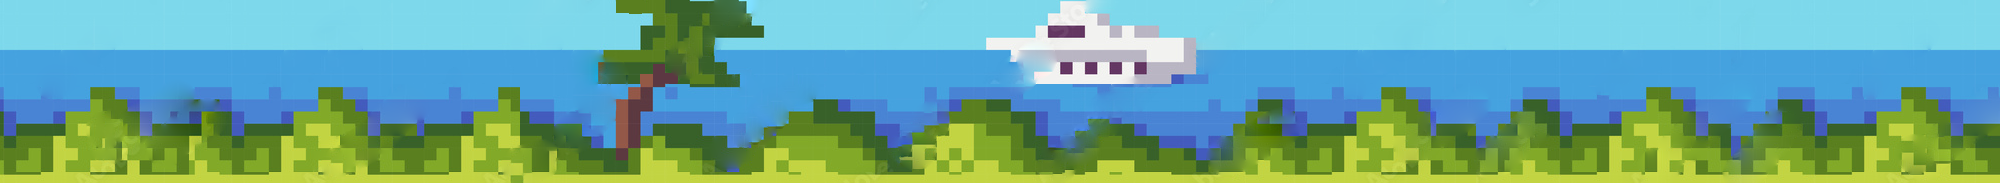
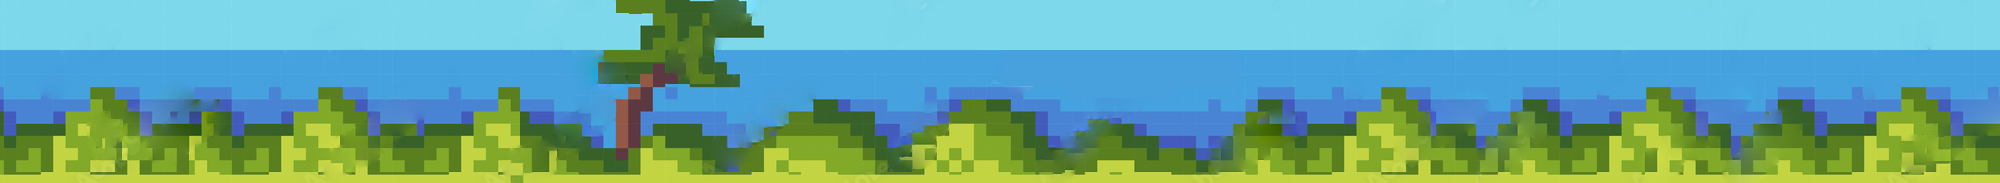
add wheelspin and enemy car

Changed region(s): [[0.496, 0.0, 0.62, 0.4918]]

diff --git a/src/app/gameboard/page.tsx b/src/app/gameboard/page.tsx
@@ -10,7 +10,7 @@ import './GameBoard.css'
 import Loader from "@/components/Loader/Loader"
 import { CarCard } from "@/types/CarCard"
 import Image from 'next/image';
-import { MoneyProvider, useMoney } from '../../contexts/MoneyContext';
+import { useMoney } from '../../contexts/MoneyContext';
 import CarStats from "@/components/CarStats/CarStats";
 import { callConffeti } from '../../utils/helperFunctions'
 
@@ -39,7 +39,8 @@ const GameBoard = ({ searchParams }: { searchParams: any }) => {
     ]) //DEFAULT 
     const [selectedCar, setSelectedCar] = useState<CarCard>()
     const [diceRolls, setDiceRolls] = useState<any>()
-    const [car1Position, setPosition] = useState(0); // Initial position 
+    const [car1Position, setCar1Position] = useState(0); // Initial position 
+    const [car2Position, setCar2Position] = useState(0); // Initial position 
     const [raceValue, setRaceValue] = useState<number>(0); // race type 0,1,2...
     const [gear, setGear] = useState<number>(0); 
     const [currentRollStats, setCurrentRollStats] = useState({});
@@ -48,8 +49,8 @@ const GameBoard = ({ searchParams }: { searchParams: any }) => {
  
     useEffect(() => {
         if (raceType===0) { setRaceValue(50); } 
-        if (raceType===1) { setRaceValue(200); } 
-        if (raceType===2) { setRaceValue(100); } 
+        if (raceType===1) { setRaceValue(100); } 
+        if (raceType===2) { setRaceValue(200); } 
     })
 
     useEffect(() => {
@@ -141,49 +142,19 @@ const GameBoard = ({ searchParams }: { searchParams: any }) => {
             // console.log(selectedCar?.parts.body[diceRolls[3]-1])
             // console.log(selectedCar?.parts.tires[diceRolls[4]-1])
             // console.log(selectedCar?.parts.transmission[diceRolls[5]-1])
-
-            const engineDiceAttrs:any = selectedCar?.parts.engine[diceRolls[0]-1].diceAttributes?.filter((diceAttr=> diceAttr.selected))
-            console.log(engineDiceAttrs)
-            accumulatedHorsepower = accumulatedHorsepower + engineDiceAttrs[0].horsepower
-            accumulatedAcceleration = accumulatedAcceleration + engineDiceAttrs[0].acceleration
-            accumulatedWeight = accumulatedWeight + engineDiceAttrs[0].weight
-            accumulatedWheelspin = accumulatedWheelspin + engineDiceAttrs[0].wheelspin
-
-            const turboDiceAttrs:any = selectedCar?.parts.turbo[diceRolls[1]-1].diceAttributes?.filter((diceAttr=> diceAttr.selected))
-            console.log(turboDiceAttrs)
-            accumulatedHorsepower = accumulatedHorsepower + turboDiceAttrs[0].horsepower
-            accumulatedAcceleration = accumulatedAcceleration + turboDiceAttrs[0].acceleration
-            accumulatedWeight = accumulatedWeight + turboDiceAttrs[0].weight
-            accumulatedWheelspin = accumulatedWheelspin + turboDiceAttrs[0].wheelspin
-
-            const intakeDiceAttrs:any = selectedCar?.parts.intake[diceRolls[2]-1].diceAttributes?.filter((diceAttr=> diceAttr.selected))
-            console.log(intakeDiceAttrs)
-            accumulatedHorsepower = accumulatedHorsepower + intakeDiceAttrs[0].horsepower
-            accumulatedAcceleration = accumulatedAcceleration + intakeDiceAttrs[0].acceleration
-            accumulatedWeight = accumulatedWeight + intakeDiceAttrs[0].weight
-            accumulatedWheelspin = accumulatedWheelspin + intakeDiceAttrs[0].wheelspin
-
-            const bodyDiceAttrs:any = selectedCar?.parts.body[diceRolls[3]-1].diceAttributes?.filter((diceAttr=> diceAttr.selected))
-            console.log(bodyDiceAttrs)
-            accumulatedHorsepower = accumulatedHorsepower + bodyDiceAttrs[0].horsepower
-            accumulatedAcceleration = accumulatedAcceleration + bodyDiceAttrs[0].acceleration
-            accumulatedWeight = accumulatedWeight + bodyDiceAttrs[0].weight
-            accumulatedWheelspin = accumulatedWheelspin + bodyDiceAttrs[0].wheelspin
-
-            const tiresDiceAttrs:any = selectedCar?.parts.tires[diceRolls[4]-1].diceAttributes?.filter((diceAttr=> diceAttr.selected))
-            console.log(tiresDiceAttrs)
-            accumulatedHorsepower = accumulatedHorsepower + tiresDiceAttrs[0].horsepower
-            accumulatedAcceleration = accumulatedAcceleration + tiresDiceAttrs[0].acceleration
-            accumulatedWeight = accumulatedWeight + tiresDiceAttrs[0].weight
-            accumulatedWheelspin = accumulatedWheelspin + tiresDiceAttrs[0].wheelspin
-
-            const transmissionDiceAttrs:any = selectedCar?.parts.transmission[diceRolls[5]-1].diceAttributes?.filter((diceAttr=> diceAttr.selected))
-            console.log(transmissionDiceAttrs)
-            accumulatedHorsepower = accumulatedHorsepower + transmissionDiceAttrs[0].horsepower
-            accumulatedAcceleration = accumulatedAcceleration + transmissionDiceAttrs[0].acceleration
-            accumulatedWeight = accumulatedWeight + transmissionDiceAttrs[0].weight
-            accumulatedWheelspin = accumulatedWheelspin + transmissionDiceAttrs[0].wheelspin
-
+ 
+ 
+            diceNames.map(name => name.toLowerCase()).forEach((part:any, index:any) => {
+                const diceAttrs = selectedCar?.parts[part][diceRolls[index] - 1].diceAttributes?.filter((diceAttr => diceAttr.selected));
+                if (diceAttrs?.length) {
+                    console.log(diceAttrs);
+                    accumulatedHorsepower += diceAttrs[0].horsepower;
+                    accumulatedAcceleration += diceAttrs[0].acceleration;
+                    accumulatedWeight += diceAttrs[0].weight;
+                    accumulatedWheelspin += diceAttrs[0].wheelspin;
+                }
+            });
+ 
 
             if (selectedCar) {
                 const newCarStats = {
@@ -197,12 +168,14 @@ const GameBoard = ({ searchParams }: { searchParams: any }) => {
                 /* Animate road */
                 const road:any = document.getElementById('road');
                 road.classList.add('animate');
-                setTimeout(() => {road.classList.remove('animate');}, 550);
+                setTimeout(() => {road.classList.remove('animate');}, 400);
                 /* end Animate road */
 
-                console.log(newCarStats)
-                console.log("DISTANCE::::: ", convertToPixels(newCarStats)) 
-                setPosition(prevPosition => prevPosition + (convertToPixels(newCarStats)));
+                console.log("new stats to show: ", newCarStats)
+                const pixelValue = convertToPixels(newCarStats);
+                //console.log("DISTANCE::::: ", pixelValue) 
+                setCar1Position(prevPosition => prevPosition + pixelValue); 
+                setCar2Position(prevPosition => prevPosition + pixelValue- (Math.floor(Math.random()*20)) ); 
             }
 
         } else {
@@ -232,7 +205,7 @@ const GameBoard = ({ searchParams }: { searchParams: any }) => {
     };
 
     const saveMoney = (value:any) => {
-		const setExperience = async () => {
+		const saveMoney = async () => {
 			try {
 				const response = await fetch('/api/setMoney', {
 					method: 'POST',
@@ -250,7 +223,7 @@ const GameBoard = ({ searchParams }: { searchParams: any }) => {
 				console.error("Error setting ex:", error);
 			}
 		}
-        setExperience()
+        saveMoney()
     }
 
     const setExperience = () => {
@@ -282,13 +255,26 @@ const GameBoard = ({ searchParams }: { searchParams: any }) => {
         const normHp = (stats.horsepower - 50) / (500 - 50);
         const normWt = (4000 - (stats.weight*1)) / (4000 - 1000);
         const normSs = (stats.acceleration - 1) / (10 - 1);
-        //const normWs = (stats.wheelspin - 1) / (10 - 1); //wheelspin... /
-        console.log("WHEELSPIN: ", stats.wheelspin)
-    
+        //const normWs = (stats.wheelspin - 1) / (10 - 1); 
+        
         const weightedSum = (0.4 * normHp) + (0.3 * normWt) + (0.2 * normSs) //+ (0.1 * normWs);
         const speedPixelsPerFrame = mPower * weightedSum;
-    
-        return speedPixelsPerFrame * 100
+        
+        const randomNumber = Math.floor(Math.random() * 100) + 1; 
+        if (randomNumber <= stats.wheelspin) {
+            Swal.fire({
+                position: "top", 
+                title: 'Wheelspin, speed cut in half',
+                showConfirmButton: false,
+                timer: 800
+            });
+            console.log((speedPixelsPerFrame * 100) / 2)
+            return (speedPixelsPerFrame * 100) / 2
+        }
+        else {
+            console.log(speedPixelsPerFrame * 100)
+            return speedPixelsPerFrame * 100
+        } 
     }
     
     return (
@@ -310,11 +296,20 @@ const GameBoard = ({ searchParams }: { searchParams: any }) => {
                 </div>
             </div>
 
-            <div className="treesImage"></div> 
+            <div className="water-container">
+                <div className="treesImage"></div> 
+                <div className="boat"></div>  
+            </div>
+            
             <div id="road" className="roadImage"></div> 
             <div className="distanceTravelled">{Math.round(car1Position)}m</div>
             <div className="selectedCarImage" style={{transform: `translateX(${car1Position}px)`,transition: 'transform 0.5s ease-in-out',}}>
                 {selectedCar ? <Image width={500} height={500} src={`/Images/cars/${selectedCar?.image}`} alt={selectedCar?.image} /> : <Loader />}
+            </div>
+
+            <div className="enemyDistanceTravelled">{Math.round(car2Position)}m</div>
+            <div className="enemyCarImage" style={{transform: `translateX(${car2Position}px)`,transition: 'transform 0.5s ease-in-out',}}>
+                {selectedCar ? <Image width={500} height={500} src={`/Images/cars/HondaCivic.png`} alt={"hondaCivic"} /> : <Loader />}
             </div>
 
             {selectedCar && <Peddle diceThrow={() => diceThrow()} disabledClass={disablePeddle} />}

diff --git a/src/app/gameboard/GameBoard.css b/src/app/gameboard/GameBoard.css
@@ -216,20 +216,62 @@
     width: 33%;
   }
 }
-
-.selectedCarImage {
+.selectedCarImage,
+.enemyCarImage {
   width: 100px;
+  margin-left: 10px;
   position: absolute;
   margin-top: -180px;
-  margin-left: 10px;
+}
+.enemyCarImage {
+  margin-top: -100px;
+}
+.distanceTravelled,
+.enemyDistanceTravelled {
+  position: absolute;
+  color: #fff;
+  font-weight: bold;
+  margin-top: -180px;
+}
+.enemyDistanceTravelled {
+  margin-top: -100px;
+}
+
+
+.water-container {
+  position: relative;
+  width: 100%;
+  height: 80px;
+  overflow: hidden;
 }
 .treesImage {
   width: 100%;
-  height: 80px;
+  height: 100%;
   background-image: url('/Images/tree2.png');
   background-repeat: repeat;
   background-size: cover;
   border-radius: 10px;
+}
+.boat {
+  position: absolute;
+  top: 50%;
+  transform: translateY(-45%);
+  right: 80px;
+  width: 80px;
+  height: 80px;
+  background-image: url('/Images/boat.png');  
+  background-repeat: no-repeat;
+  background-size: contain;
+  animation: sail 50s linear infinite;
+}
+
+@keyframes sail {
+  from {
+    right: -80px; /* Start just outside the right edge */
+  }
+  to {
+    right: 100%; /* Move to just outside the left edge */
+  }
 }
 
 .roadImage {
@@ -249,10 +291,4 @@
 }
 
 
-
-.distanceTravelled {
-  position: absolute;
-  color: #fff;
-  font-weight: bold;
-  margin-top: -180px;
-}
+ 

diff --git a/src/components/Loader/Loader.css b/src/components/Loader/Loader.css
@@ -2,10 +2,9 @@
 .loadContainer {
     position: absolute; 
     left: 50%;
-    -webkit-transform: translate(-50%,-50%);
-        -ms-transform: translate(-50%,-50%);
-            transform: translate(-50%,-50%);
-    margin-top: 65px; 
+    -webkit-transform: translate(-50%,0%);
+        -ms-transform: translate(-50%,0%);
+            transform: translate(-50%,0%);
 }
 @media only screen and (max-width: 1050px) { .loadContainer { margin-top: 60px;  }} /* for stupid mobile center div */
 @-webkit-keyframes loader {
